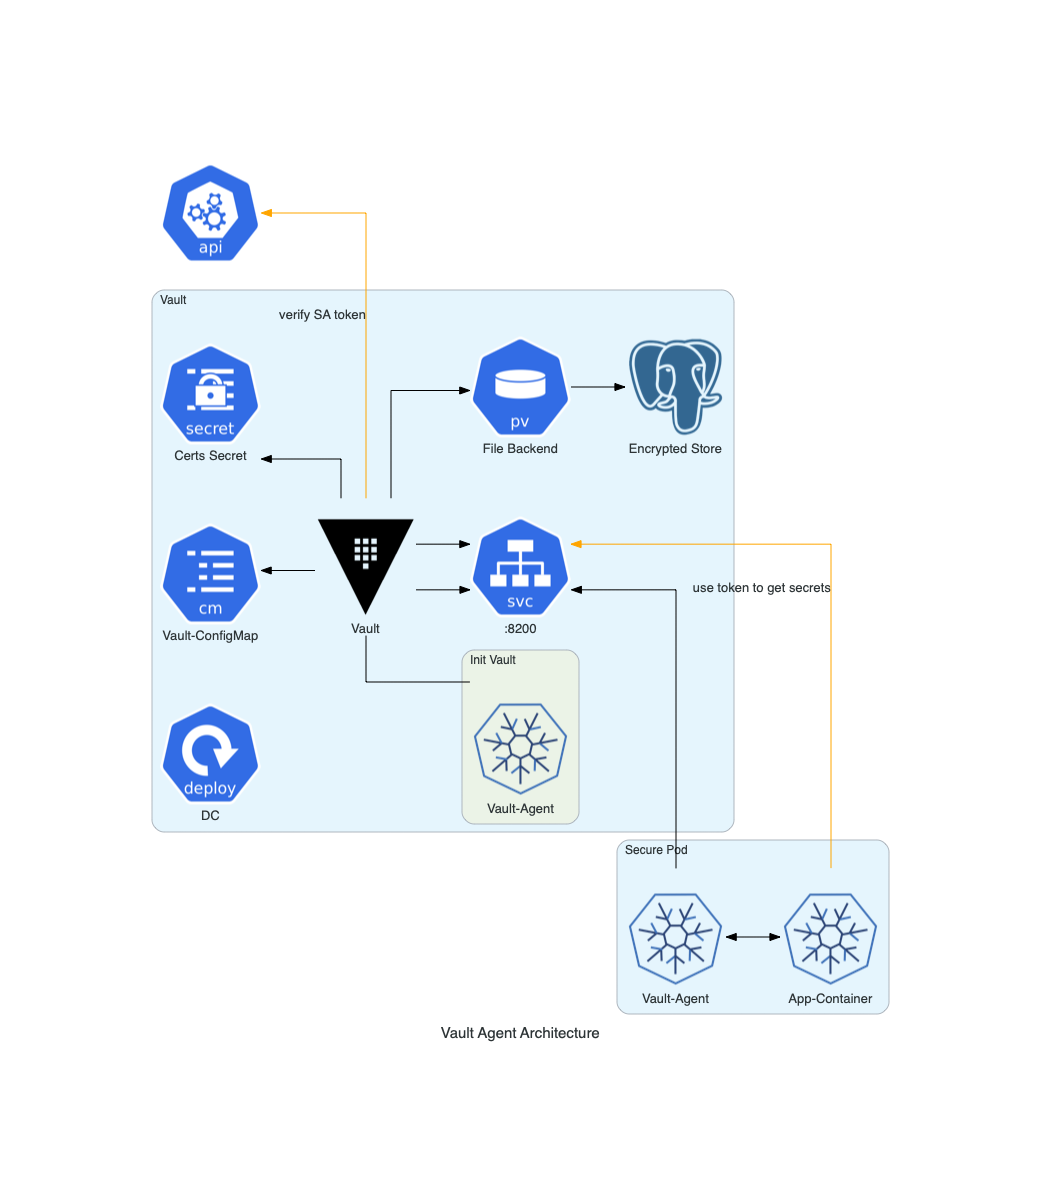
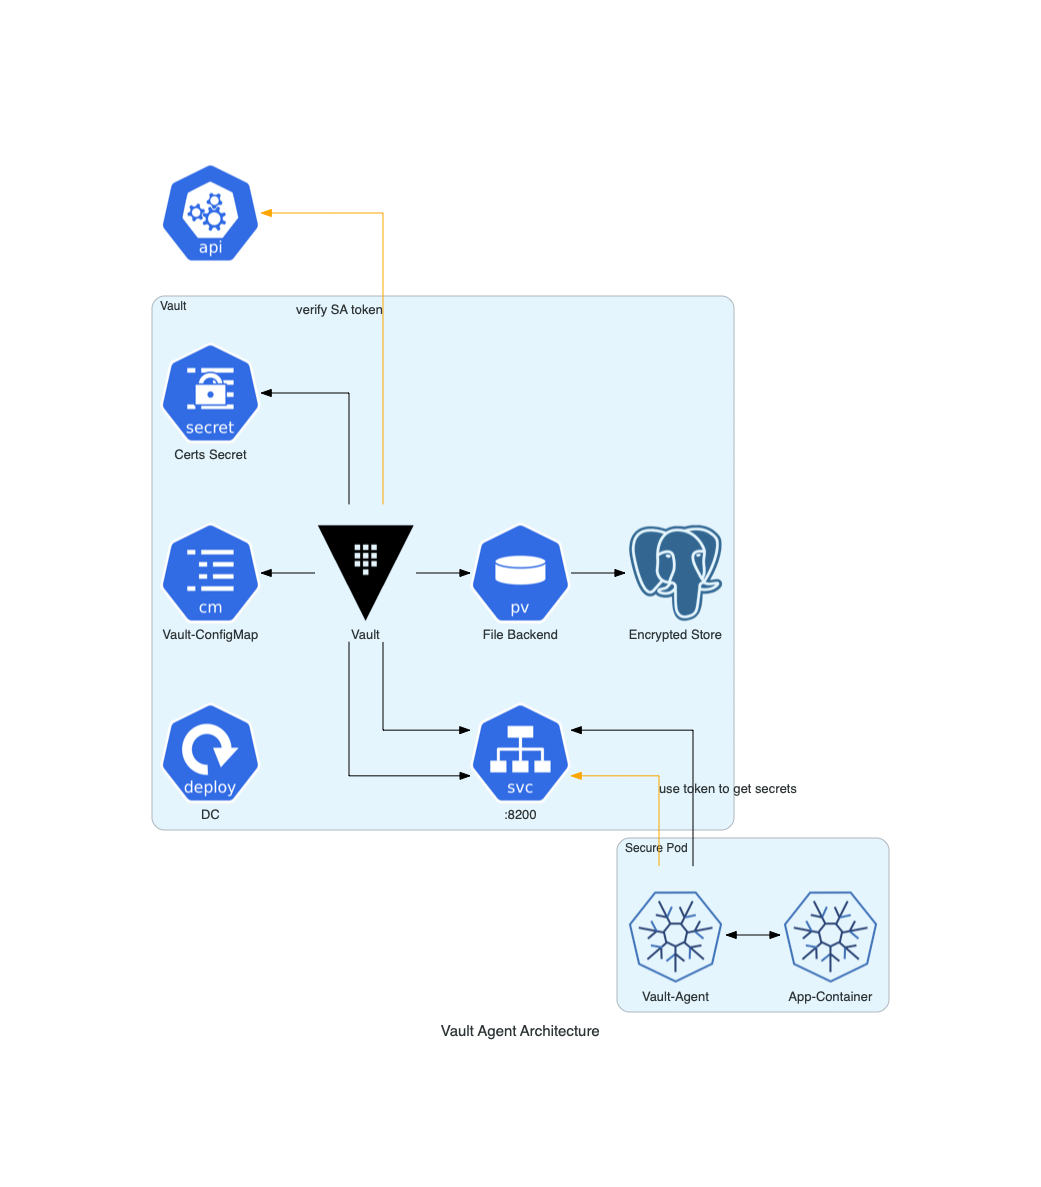
fixed diagram

diff --git a/diagrams/vault_diagrams.py b/diagrams/vault_diagrams.py
@@ -1,3 +1,14 @@
+# -*- coding: utf-8 -*-
+"""
+# Usage
+$ python3 vault_diagrams.py -h
+
+# Generate all
+$ python3 vault_diagrams.py
+
+Supported options: "basic | webhook | all (default)"
+"""
+
 from diagrams import Cluster, Diagram, Edge
 
 from diagrams.k8s.infra import ETCD
@@ -21,7 +32,7 @@ import os
 import argparse
 
 APP_ROOT = os.path.dirname(os.path.abspath(__file__))
-crio_icon = os.path.join(APP_ROOT, "cri-o.png")
+crio_icon = os.path.join(APP_ROOT, "resources/cri-o.png")
 
 def basic_vault_agent_architecture():
     with Diagram(name="Vault Agent Architecture", show=False):
@@ -36,10 +47,6 @@ def basic_vault_agent_architecture():
             file_backend = PV("File Backend")
             encrypted_store = PostgreSQL("Encrypted Store")
 
-            with Cluster("Init Vault"):
-                vault_agent = Custom("Vault-Agent", crio_icon)
-                vault - vault_agent
-
             vault_apps = []
             apiserver << Edge(label="verify SA token", color="orange") << vault
             vault_apps.append(vault >> svc << vault >> file_backend >> encrypted_store)
@@ -51,11 +58,11 @@ def basic_vault_agent_architecture():
             app_container = Custom("App-Container", crio_icon)
             vault_agent >> Edge() << app_container
             svc << Edge() << vault_agent
-            svc << Edge(label="use token to get secrets", color="orange") << app_container
+            svc << Edge(label="use token to get secrets", color="orange") << vault_agent
 
 
 def webhooked_vault_agent_architecture():
-    with Diagram(name="Mutating Webhook Vault Agent Architecture", show=False):
+    with Diagram(name="Mutating Webhook", show=False):
         with Cluster("Control Plane"):
             apiserver = APIServer()
             etcd = ETCD()
@@ -70,10 +77,6 @@ def webhooked_vault_agent_architecture():
             file_backend = PV("File Backend")
             encrypted_store = PostgreSQL("Encrypted Store")
 
-            with Cluster("Init Vault"):
-                vault_agent = Custom("Vault-Agent", crio_icon)
-                vault - vault_agent
-
             vault_apps = []
             apiserver << Edge(label="verify SA token", color="orange") << vault
             vault_apps.append(vault >> svc << vault >> file_backend >> encrypted_store)
@@ -82,11 +85,11 @@ def webhooked_vault_agent_architecture():
 
         with Cluster("Secure Pod"):
             vault_agent = Custom("Vault-Agent", crio_icon)
-            vault_secret_fetcher = Custom("Secret Fetcher", crio_icon)
+            vault_agent_init = Custom("Init-Vault-Agent", crio_icon)
             app_container = Custom("App-Container", crio_icon)
             vault_agent >> Edge() << app_container
             svc << Edge() << vault_agent
-            svc << Edge(label="use token to get secrets", color="orange") << app_container
+            svc << Edge(label="Use token to get secrets", color="orange") << vault_agent
 
         webhook = SQS("Mutating Webhook")
         apiserver >> Edge(label="Notified at pod creation") >> webhook >> Edge(label="Injects") >> vault_agent
@@ -95,12 +98,15 @@ def main():
     parser = argparse.ArgumentParser(
         description="Generates different Vault diagrams")
     parser.add_argument("--type", "-t",
-        default="basic",
-        help="basic | webhook")
+        default="all",
+        help="basic | webhook | all (default)")
 
     args = parser.parse_args()
 
-    if args.type != "basic" or args.type == "webhook":
+    if args.type == "all":
+        basic_vault_agent_architecture()
+        webhooked_vault_agent_architecture()
+    elif args.type == "webhook":
         webhooked_vault_agent_architecture()
     else:
         basic_vault_agent_architecture()
